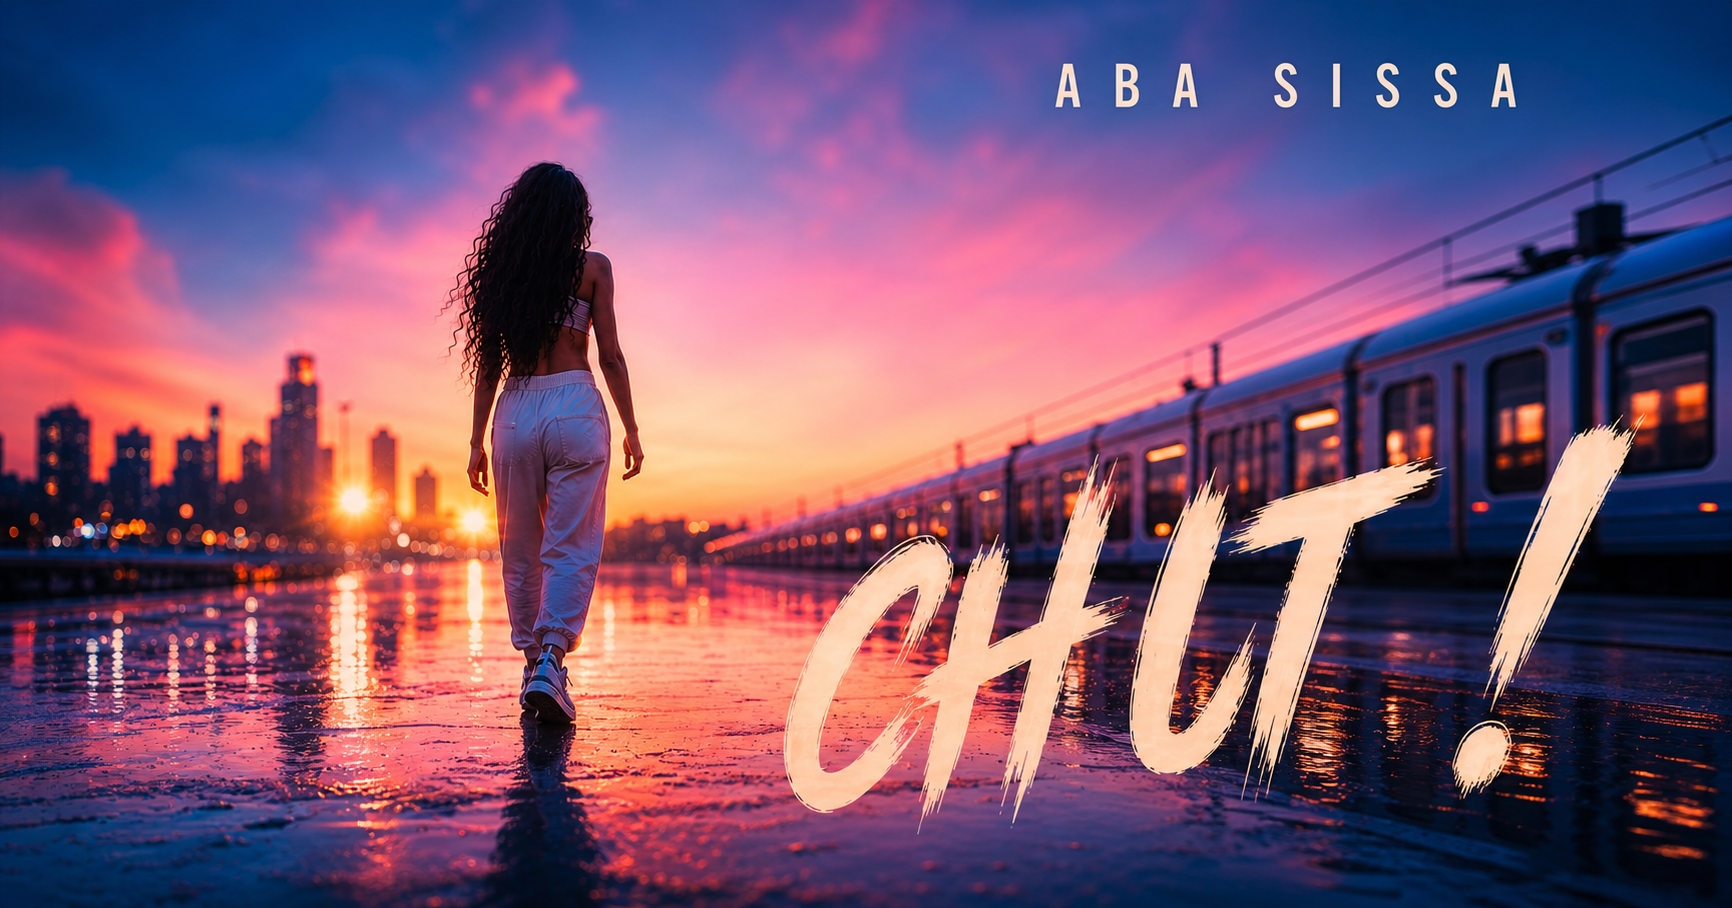
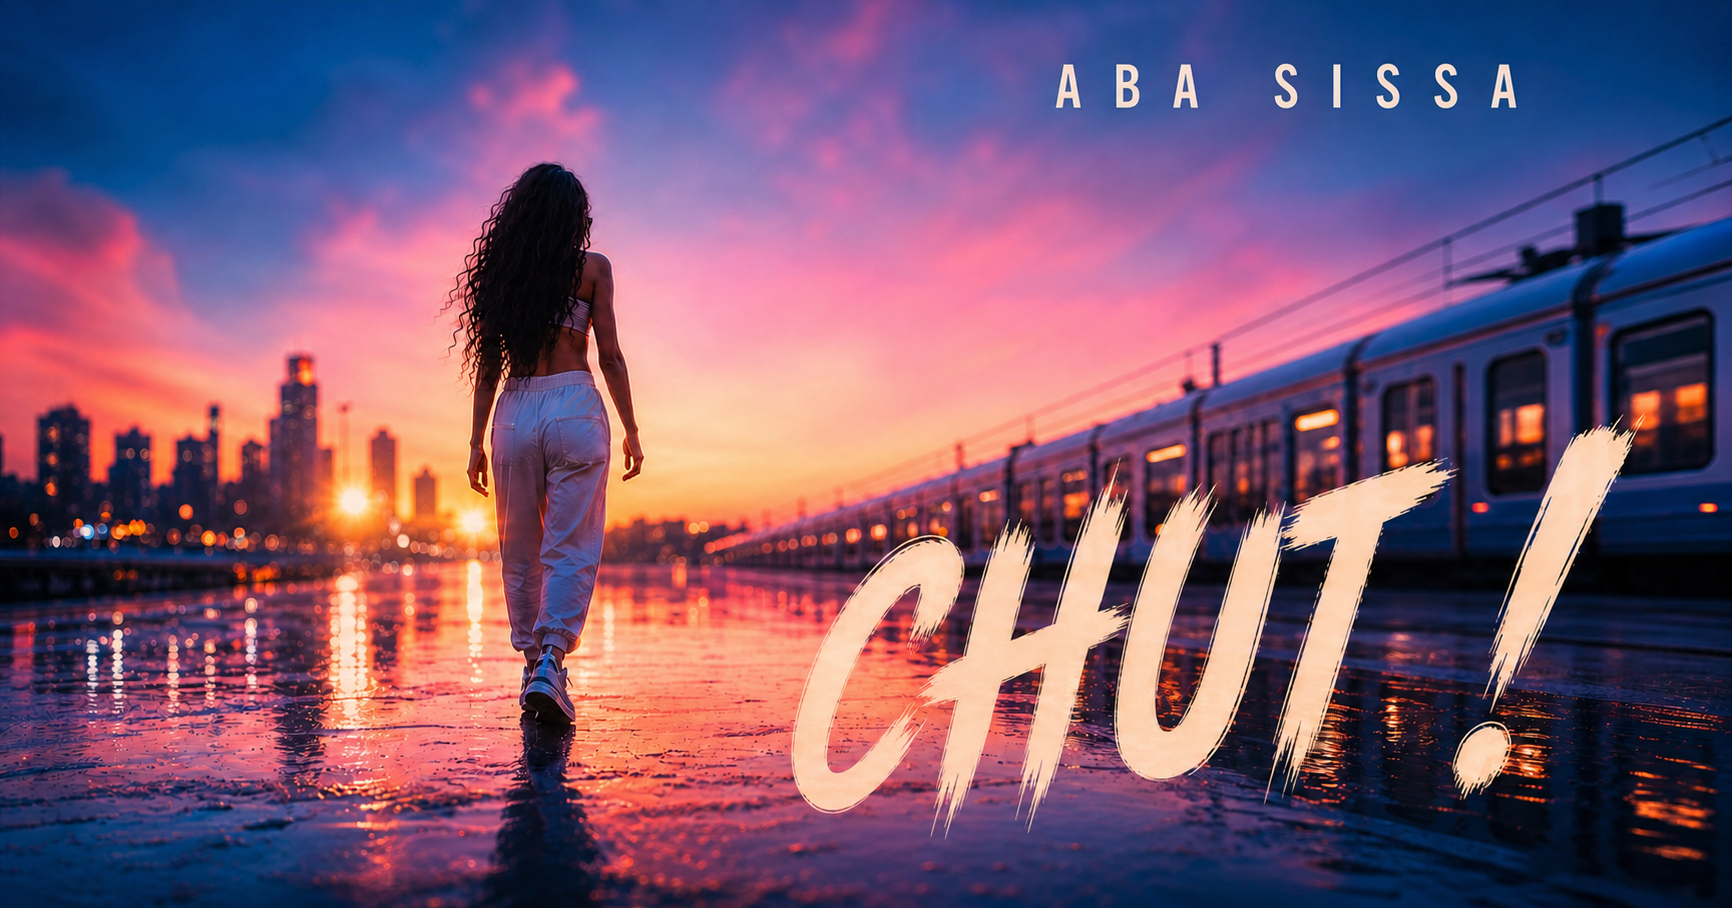
Corriger le visuel et ajouter Apple Music

diff --git a/app/album-data.ts b/app/album-data.ts
@@ -32,7 +32,11 @@ export const album = {
       icon: "spotify",
       url: "https://open.spotify.com/album/2UB0BSujgOr6G3lcNV0Fhe",
     },
-    { name: "Apple Music", icon: "applemusic", url: null },
+    {
+      name: "Apple Music",
+      icon: "applemusic",
+      url: "https://music.apple.com/fr/album/chut/6790554865",
+    },
     {
       name: "Deezer",
       icon: "deezer",
